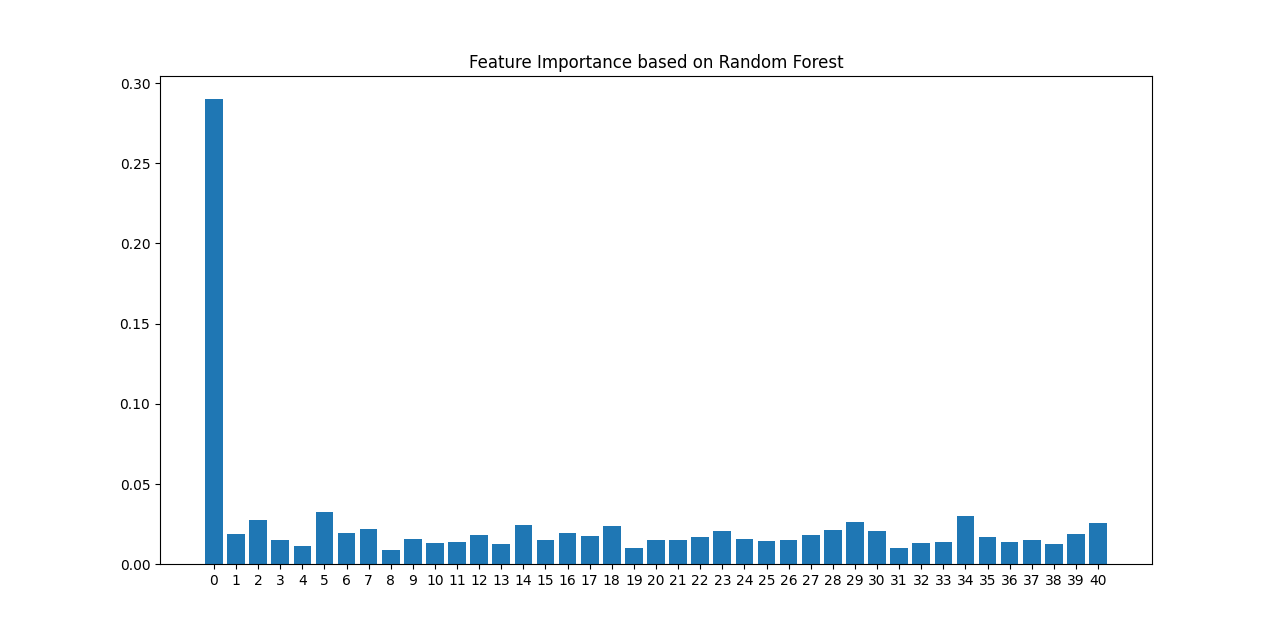
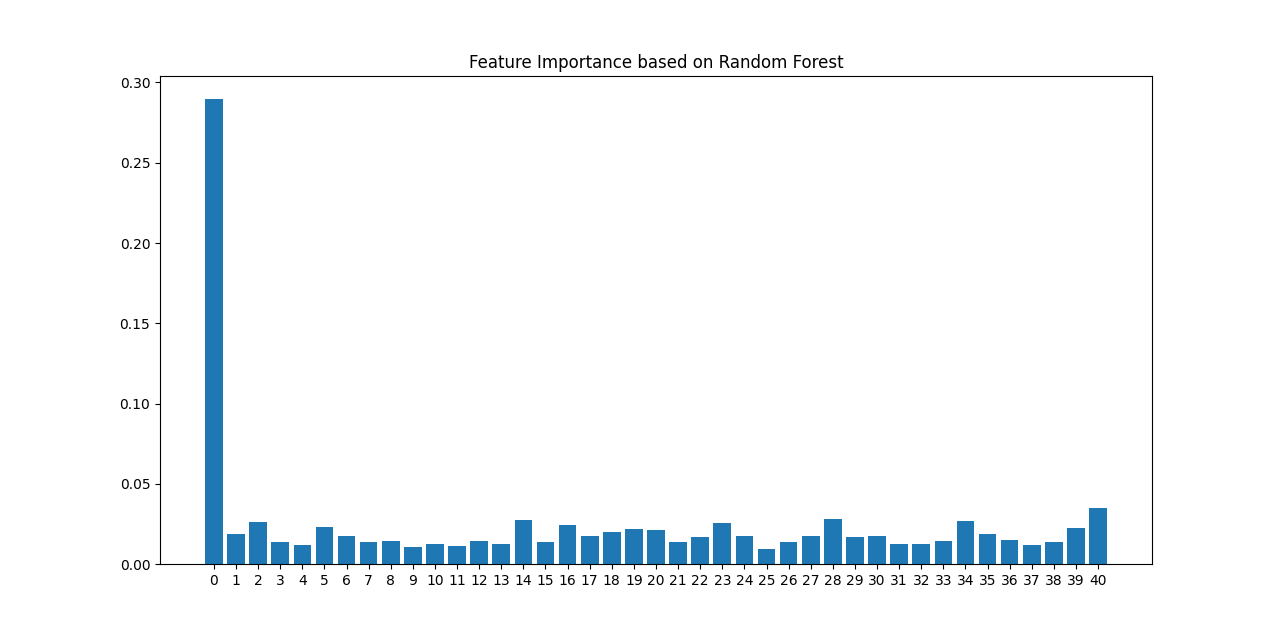
Update feature importance charts and information to match

diff --git a/data/output_info.md b/data/output_info.md
@@ -50,89 +50,88 @@ Random Forest Classifier Accuracy: 0.8010471204188482
 
 ### Feature Importance based on Decision Tree
 
-- Duration 0.5663960832261994
-- Mean Amplitude 0.03985324475247346
-- Mean RMSE 0.014458986234545319
-- ZCR 0.007940678460909673
-- Mean Spectral Centroid 0.010587571281212897
-- Mean Spectral Rolloff RP=0.1 0.01372597898854232
+- Duration 0.5663960832261995
+- Mean Amplitude 0.03266124277428276
+- Mean RMSE 0.0
+- ZCR 0.0
+- Mean Spectral Centroid 0.014659714081679391
+- Mean Spectral Rolloff RP=0.1 0.013725978988542322
 - Mean Spectral Rolloff RP=0.2 0.0
-- Mean Spectral Rolloff RP=0.3 0.01191101769136451
+- Mean Spectral Rolloff RP=0.3 0.025046557515758218
 - Mean Spectral Rolloff RP=0.4 0.0
-- Mean Spectral Rolloff RP=0.5 0.0
-- Mean Spectral Rolloff RP=0.6 0.0
+- Mean Spectral Rolloff RP=0.5 0.007940678460909675
+- Mean Spectral Rolloff RP=0.6 0.018528249742122572
 - Mean Spectral Rolloff RP=0.7 0.0
 - Mean Spectral Rolloff RP=0.8 0.0
 - Mean Spectral Rolloff RP=0.9 0.0
-- Mean MFCC 1 0.03413266683878164
-- Mean MFCC 2 0.0
-- Mean MFCC 3 0.015004608356603609
+- Mean MFCC 1 0.019014015695517437
+- Mean MFCC 2 0.0046829642205364844
+- Mean MFCC 3 0.01500460835660361
 - Mean MFCC 4 0.0
 - Mean MFCC 5 0.0
-- Mean MFCC 6 0.01575531440656681
-- Mean MFCC 7 0.0150496508518856
-- Mean MFCC 8 0.01339623476895635
+- Mean MFCC 6 0.03664566958400183
+- Mean MFCC 7 0.007108972390975928
+- Mean MFCC 8 0.013895435519265162
 - Mean MFCC 9 0.0
-- Mean MFCC 10 0.01355960348565087
-- Mean MFCC 11 0.0
+- Mean MFCC 10 0.013559603485650872
+- Mean MFCC 11 0.007940678460909675
 - Mean MFCC 12 0.0
 - Mean MFCC 13 0.0
-- Mean MFCC 14 0.07126128706090169
+- Mean MFCC 14 0.07555086155843578
 - Mean MFCC 15 0.0
-- Mean MFCC 16 0.012705085537455476
-- Mean MFCC 17 0.0
+- Mean MFCC 16 0.0
+- Mean MFCC 17 0.016857267006758728
 - Mean MFCC 18 0.0
-- Mean MFCC 19 0.004921660881643252
-- Mean MFCC 20 0.007940678460909673
-- Mean Spectral Contrast 1 0.0
-- Mean Spectral Contrast 2 0.03963714637745515
+- Mean MFCC 19 0.004921660881643253
+- Mean MFCC 20 0.0
+- Mean Spectral Contrast 1 0.0401960245745265
+- Mean Spectral Contrast 2 0.0
 - Mean Spectral Contrast 3 0.0
-- Mean Spectral Contrast 4 0.014200790051785567
-- Mean Spectral Contrast 5 0.04611168556721418
-- Mean Spectral Contrast 6 0.018228601498314637
-- Mean Spectral Contrast 7 0.01322142522062792
+- Mean Spectral Contrast 4 0.0
+- Mean Spectral Contrast 5 0.046111685567214185
+- Mean Spectral Contrast 6 0.007641030217101745
+- Mean Spectral Contrast 7 0.011911017691364512
 
 ### Feature Importance based on Random Forest
 
-- Duration 0.31043753833058074
-- Mean Amplitude 0.02125893285466791
-- Mean RMSE 0.02959760539537032
-- ZCR 0.014719853724888493
-- Mean Spectral Centroid 0.009907472736381187
-- Mean Spectral Rolloff RP=0.1 0.02051195502034951
-- Mean Spectral Rolloff RP=0.2 0.01560312877832176
-- Mean Spectral Rolloff RP=0.3 0.01352340522306936
-- Mean Spectral Rolloff RP=0.4 0.011166149858933461
-- Mean Spectral Rolloff RP=0.5 0.013983489363427195
-- Mean Spectral Rolloff RP=0.6 0.012562314301193306
-- Mean Spectral Rolloff RP=0.7 0.010805425245695522
-- Mean Spectral Rolloff RP=0.8 0.01002301852157802
-- Mean Spectral Rolloff RP=0.9 0.013998137210500389
-- Mean MFCC 1 0.03032933602295392
-- Mean MFCC 2 0.012700728186935243
-- Mean MFCC 3 0.01656554461941281
-- Mean MFCC 4 0.017526698873504405
-- Mean MFCC 5 0.022575734667060438
-- Mean MFCC 6 0.012281626309535576
-- Mean MFCC 7 0.018512128952872485
-- Mean MFCC 8 0.013783018917434765
-- Mean MFCC 9 0.0106947077184121
-- Mean MFCC 10 0.020527805036787385
-- Mean MFCC 11 0.017161718083792996
-- Mean MFCC 12 0.010906491966121002
-- Mean MFCC 13 0.01539294128525501
-- Mean MFCC 14 0.021501982681993777
-- Mean MFCC 15 0.02421679310805851
-- Mean MFCC 16 0.015221671205642403
-- Mean MFCC 17 0.010694279278642247
-- Mean MFCC 18 0.010809913839867456
-- Mean MFCC 19 0.017891783487069705
-- Mean MFCC 20 0.015838891884513397
-- Mean Spectral Contrast 1 0.03620912776484041
-- Mean Spectral Contrast 2 0.019139628578311058
-- Mean Spectral Contrast 3 0.014482508791313511
-- Mean Spectral Contrast 4 0.014544131247653578
-- Mean Spectral Contrast 5 0.021409978065053622
-- Mean Spectral Contrast 6 0.024002500426960977
-- Mean Spectral Contrast 7 0.026979902435043886
--
+- Duration 0.28945295146148664
+- Mean Amplitude 0.01869086417884443
+- Mean RMSE 0.0263182784843377
+- ZCR 0.014130857123011388
+- Mean Spectral Centroid 0.011872510630456473
+- Mean Spectral Rolloff RP=0.1 0.023304943268230325
+- Mean Spectral Rolloff RP=0.2 0.01789159563768825
+- Mean Spectral Rolloff RP=0.3 0.014064207528640306
+- Mean Spectral Rolloff RP=0.4 0.014184063170675906
+- Mean Spectral Rolloff RP=0.5 0.010524544302743946
+- Mean Spectral Rolloff RP=0.6 0.012660388322538435
+- Mean Spectral Rolloff RP=0.7 0.011206617770945256
+- Mean Spectral Rolloff RP=0.8 0.014581214241602412
+- Mean Spectral Rolloff RP=0.9 0.012380068838878298
+- Mean MFCC 1 0.027652155428191775
+- Mean MFCC 2 0.013680916093445135
+- Mean MFCC 3 0.024211843627125234
+- Mean MFCC 4 0.0176909165395187
+- Mean MFCC 5 0.019964516538127468
+- Mean MFCC 6 0.022250148292370375
+- Mean MFCC 7 0.02134826556996302
+- Mean MFCC 8 0.014163852481393853
+- Mean MFCC 9 0.01688838041267184
+- Mean MFCC 10 0.025766184907015505
+- Mean MFCC 11 0.017892715335171665
+- Mean MFCC 12 0.009708907957949455
+- Mean MFCC 13 0.013997972464902735
+- Mean MFCC 14 0.017383275980014497
+- Mean MFCC 15 0.02816181168712507
+- Mean MFCC 16 0.01691979812670318
+- Mean MFCC 17 0.01729090294637478
+- Mean MFCC 18 0.012891647465802639
+- Mean MFCC 19 0.012901201354765884
+- Mean MFCC 20 0.014428338941747608
+- Mean Spectral Contrast 1 0.026653475414075995
+- Mean Spectral Contrast 2 0.018793502360598992
+- Mean Spectral Contrast 3 0.015020204278204665
+- Mean Spectral Contrast 4 0.011882972566121414
+- Mean Spectral Contrast 5 0.013687066054509036
+- Mean Spectral Contrast 6 0.0222937229703421
+- Mean Spectral Contrast 7 0.03521219924568746
